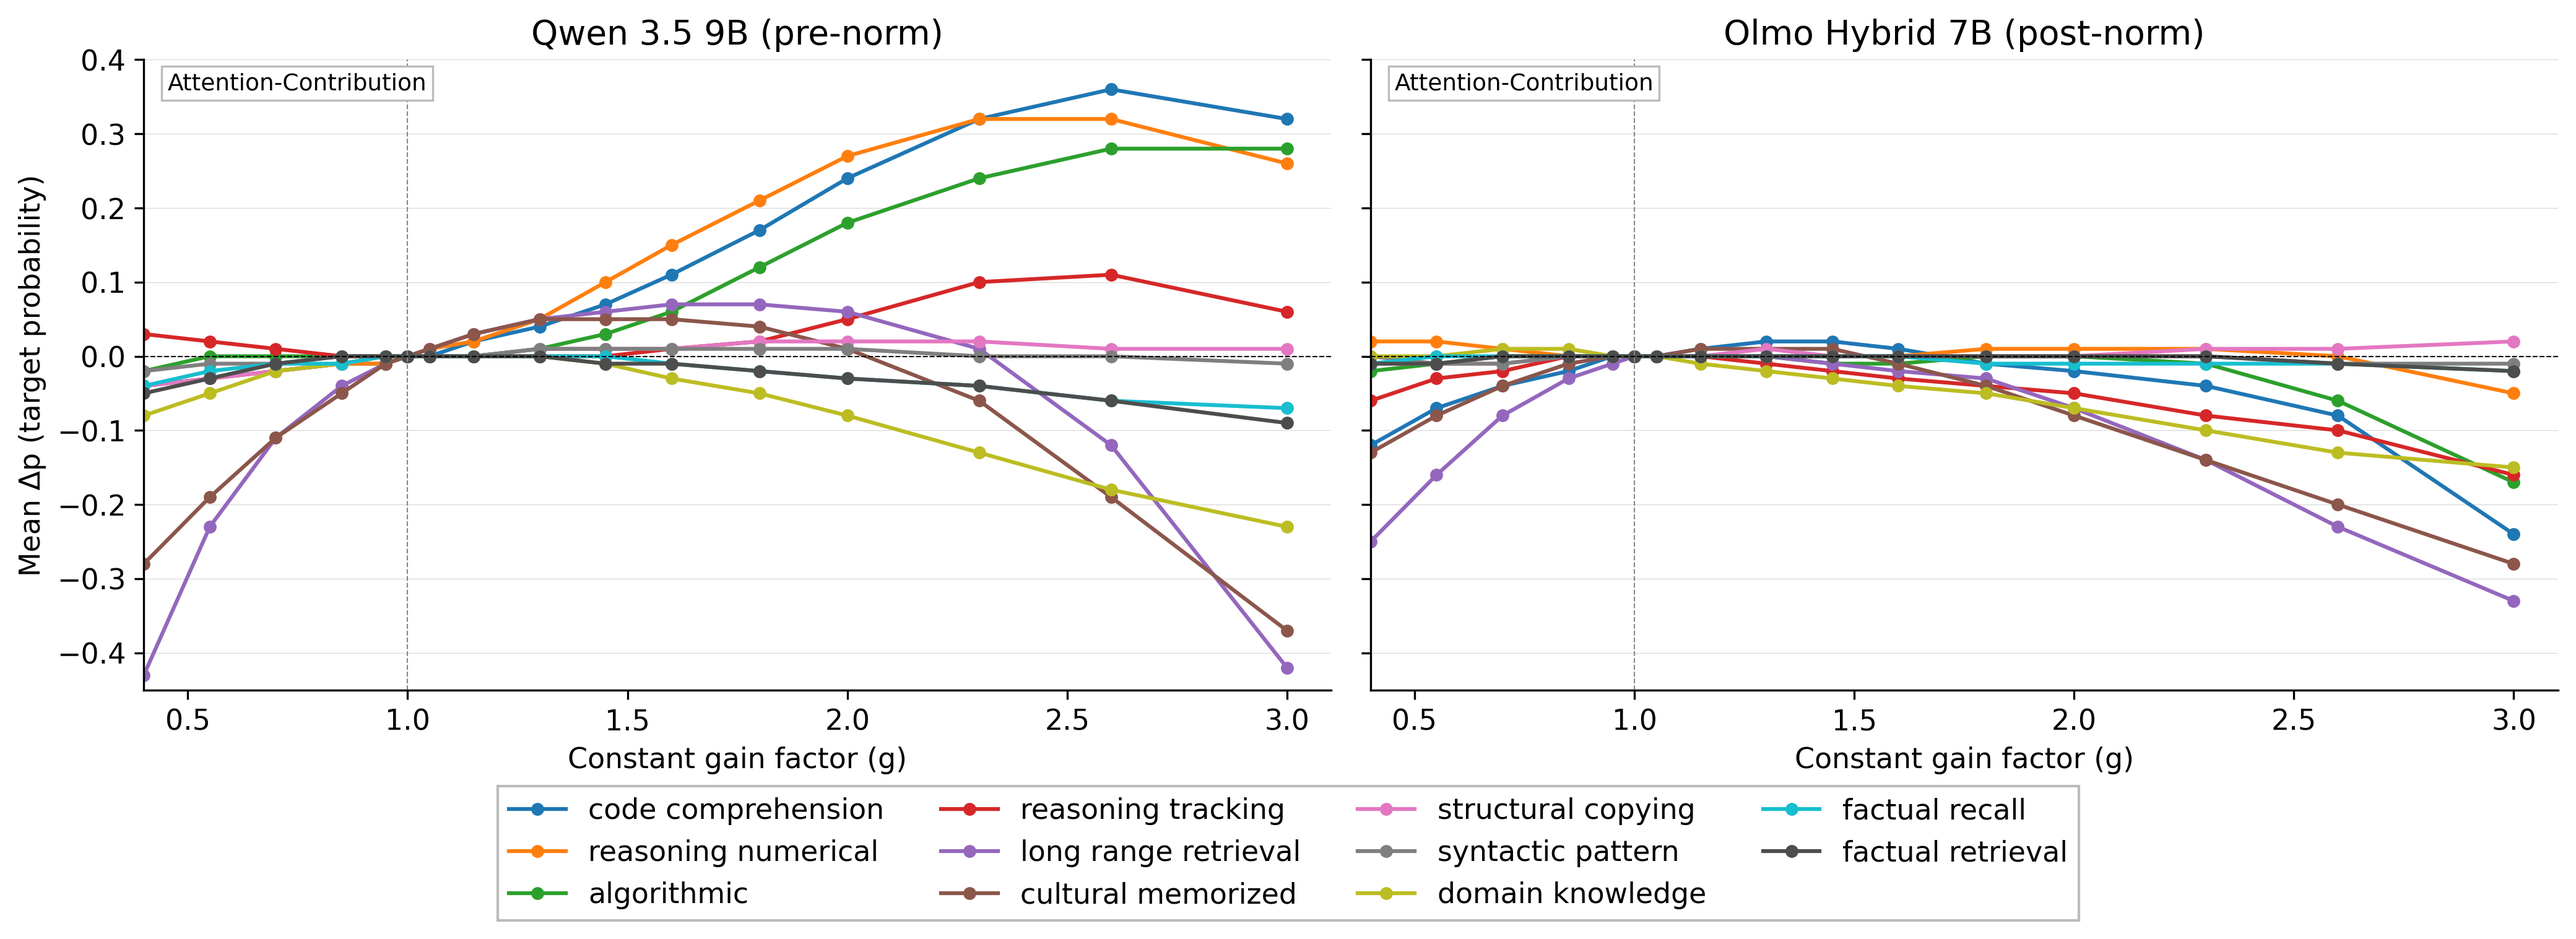
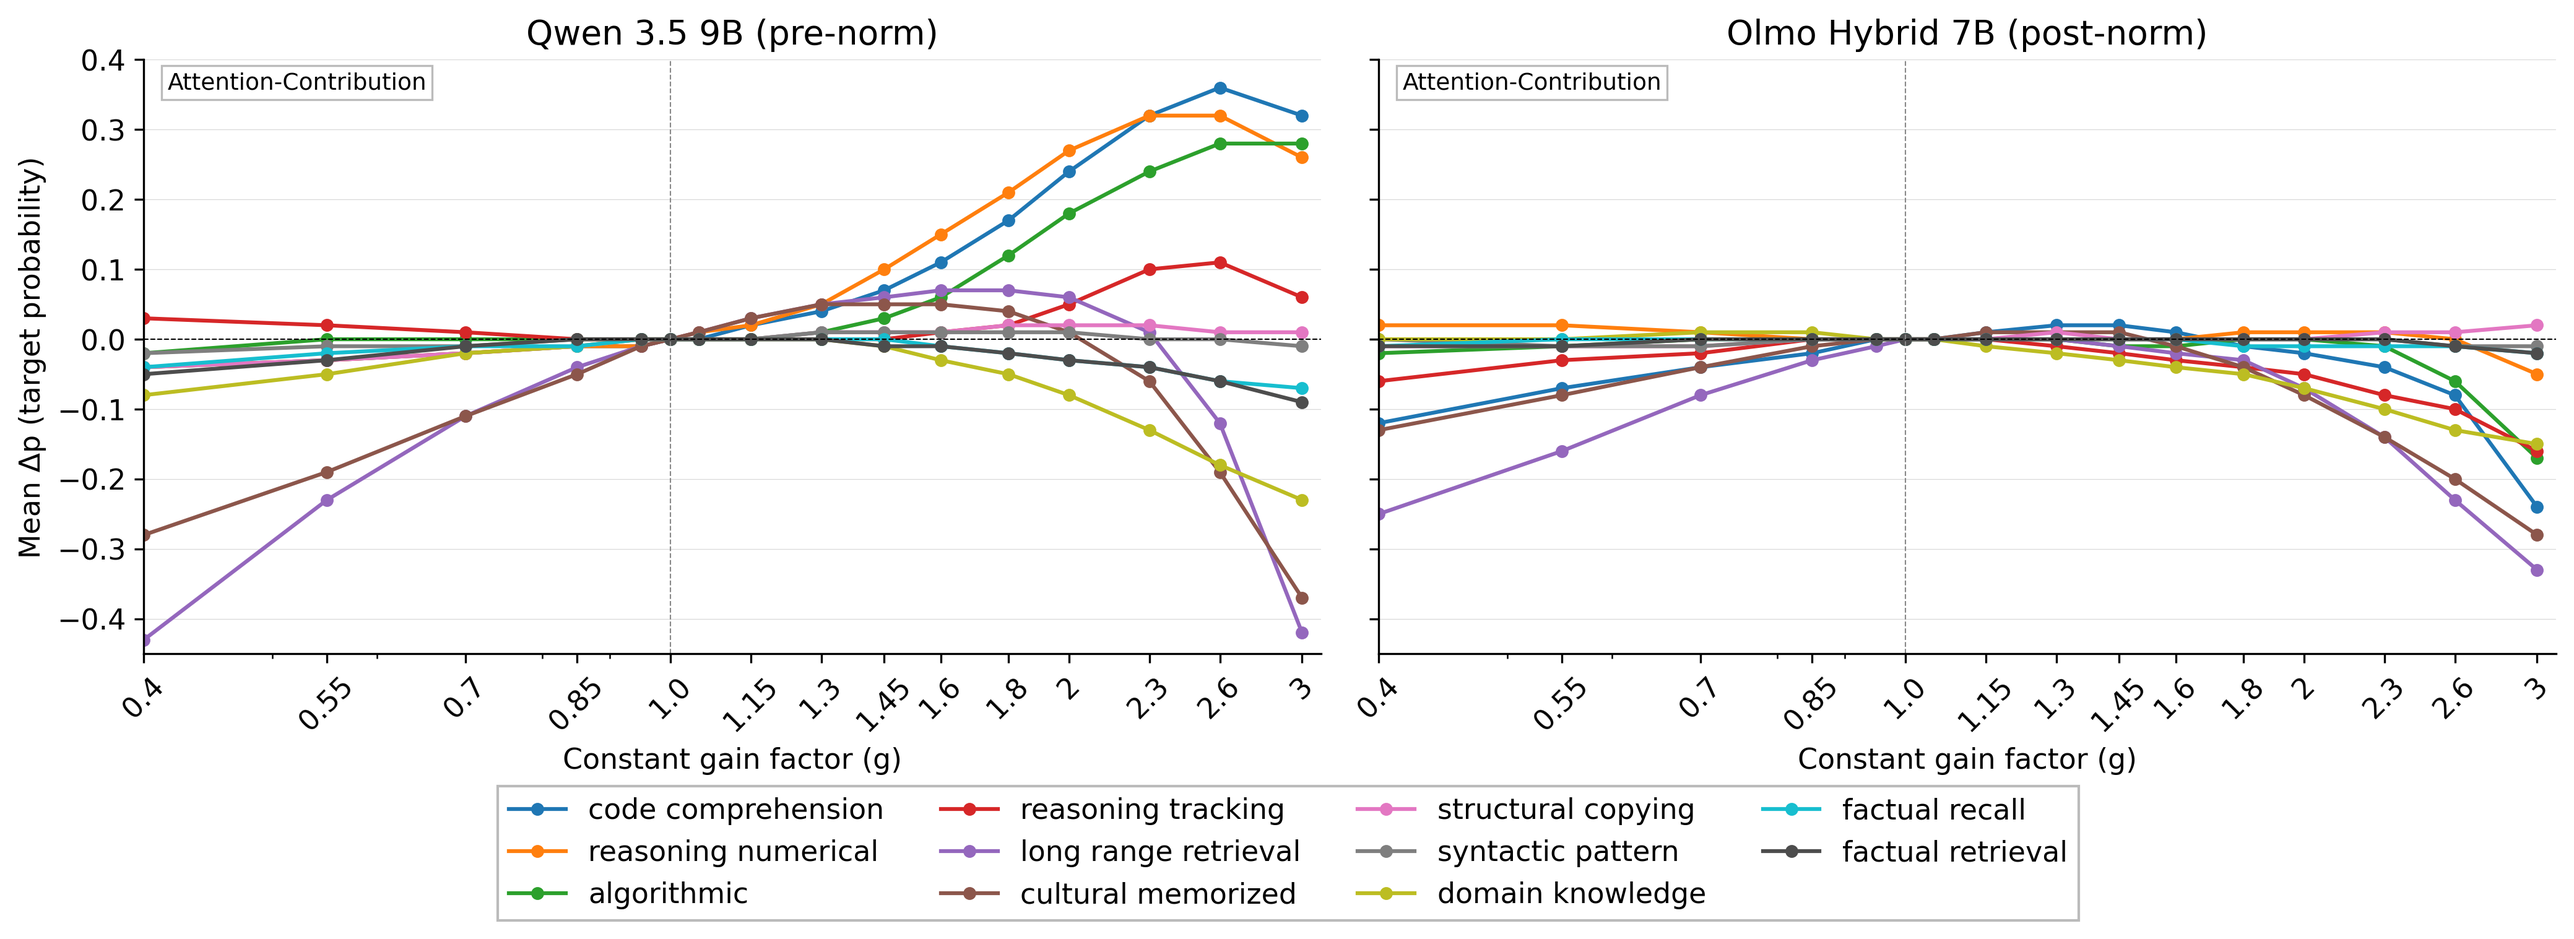
not router

diff --git a/docs/figurelib/constant_gain.py b/docs/figurelib/constant_gain.py
@@ -5,6 +5,7 @@ from dataclasses import dataclass
 from pathlib import Path
 
 import matplotlib.pyplot as plt
+from matplotlib.ticker import FixedLocator, FuncFormatter, NullFormatter
 
 from .common import add_mode_inset, configure_matplotlib, prettify_type, qualitative_11_color_map
 
@@ -50,6 +51,15 @@ def get_type_order_by_peak(data: dict[str, list[tuple[float, float]]]) -> list[s
     return [prompt_type for prompt_type, _ in peaks]
 
 
+DEFAULT_GAIN_TICKS = [0.4, 0.55, 0.7, 0.85, 1.0, 1.15, 1.3, 1.45, 1.6, 1.8, 2.0, 2.3, 2.6, 3.0]
+
+
+def _format_gain_tick(value: float, _: float) -> str:
+    if abs(value - 1.0) < 1e-9:
+        return "1.0"
+    return f"{value:g}"
+
+
 def plot_constant_gain_dose_response(
     *,
     panels: list[ConstantGainPanel],
@@ -60,10 +70,12 @@ def plot_constant_gain_dose_response(
     legend_columns: int = 4,
     figsize: tuple[float, float] = (14, 5),
     facecolor: str = "white",
+    xticks: list[float] | None = None,
 ) -> None:
     model_data = [load_constant_gain_data(panel.path) for panel in panels]
     type_order = get_type_order_by_peak(model_data[0])
     colors = qualitative_11_color_map(type_order)
+    gain_ticks = xticks if xticks is not None else DEFAULT_GAIN_TICKS
 
     configure_matplotlib(font_family="sans-serif", font_size=11)
 
@@ -89,9 +101,14 @@ def plot_constant_gain_dose_response(
             )
 
         ax.set_title(panel.title)
+        ax.set_xscale("log")
         ax.set_xlim(*xlim)
         ax.set_ylim(*ylim)
         ax.set_xlabel("Constant gain factor (g)")
+        ax.xaxis.set_major_locator(FixedLocator(gain_ticks))
+        ax.xaxis.set_major_formatter(FuncFormatter(_format_gain_tick))
+        ax.xaxis.set_minor_formatter(NullFormatter())
+        ax.tick_params(axis="x", rotation=45)
         ax.axhline(0.0, color="black", linestyle="--", linewidth=0.5)
         ax.axvline(1.0, color="#888888", linestyle="--", linewidth=0.5)
         ax.grid(axis="y", color="#D9D9D9", linewidth=0.3)
